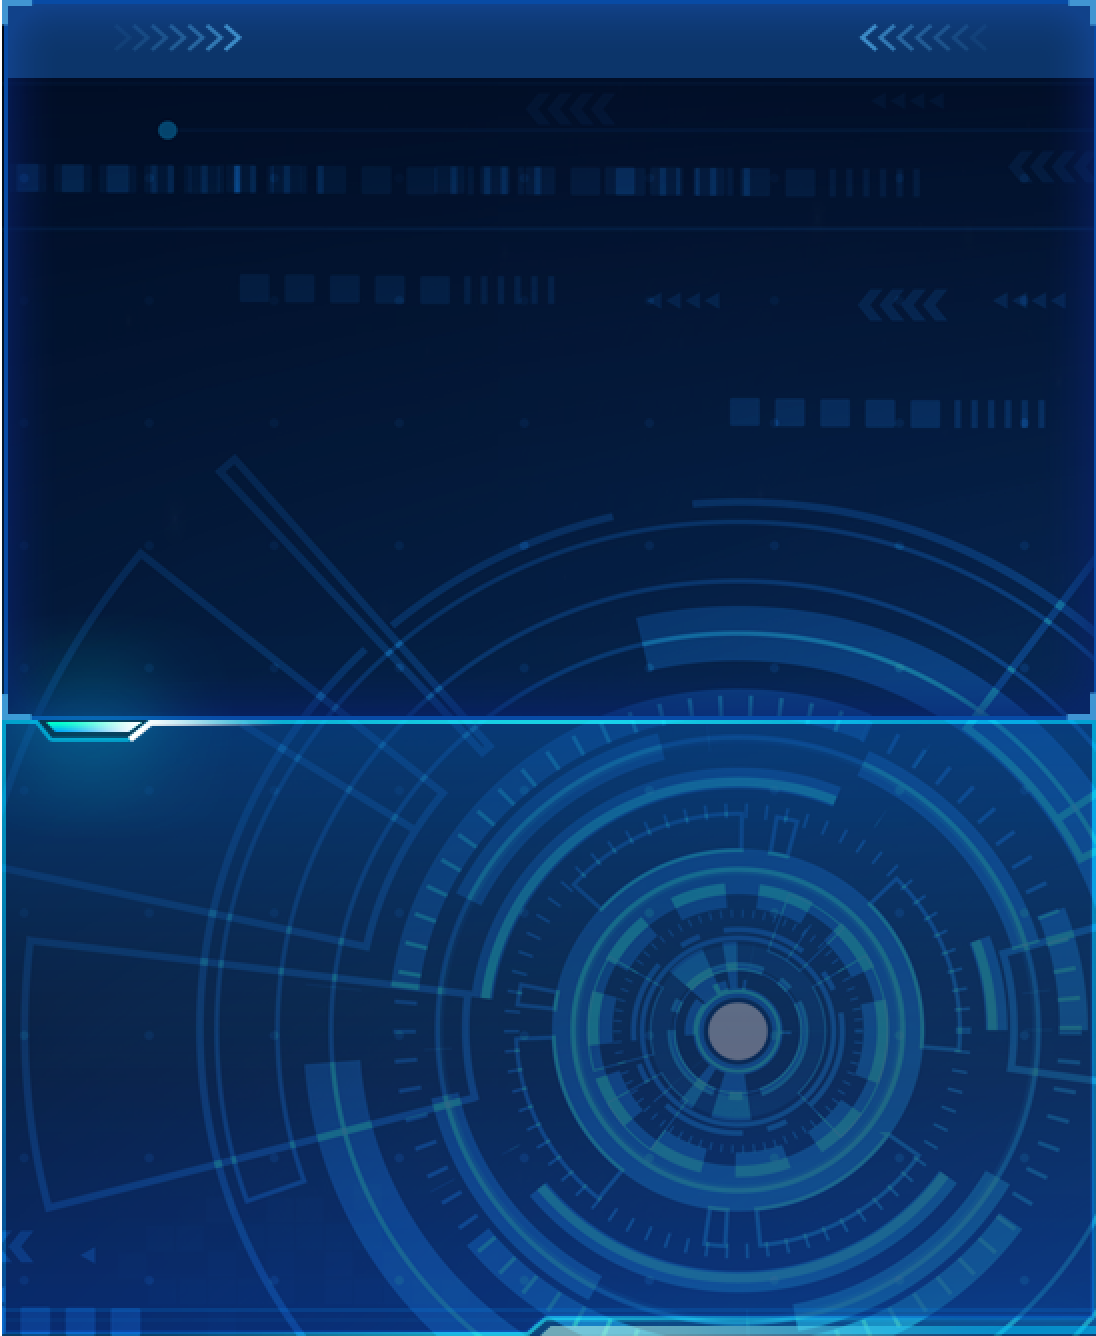
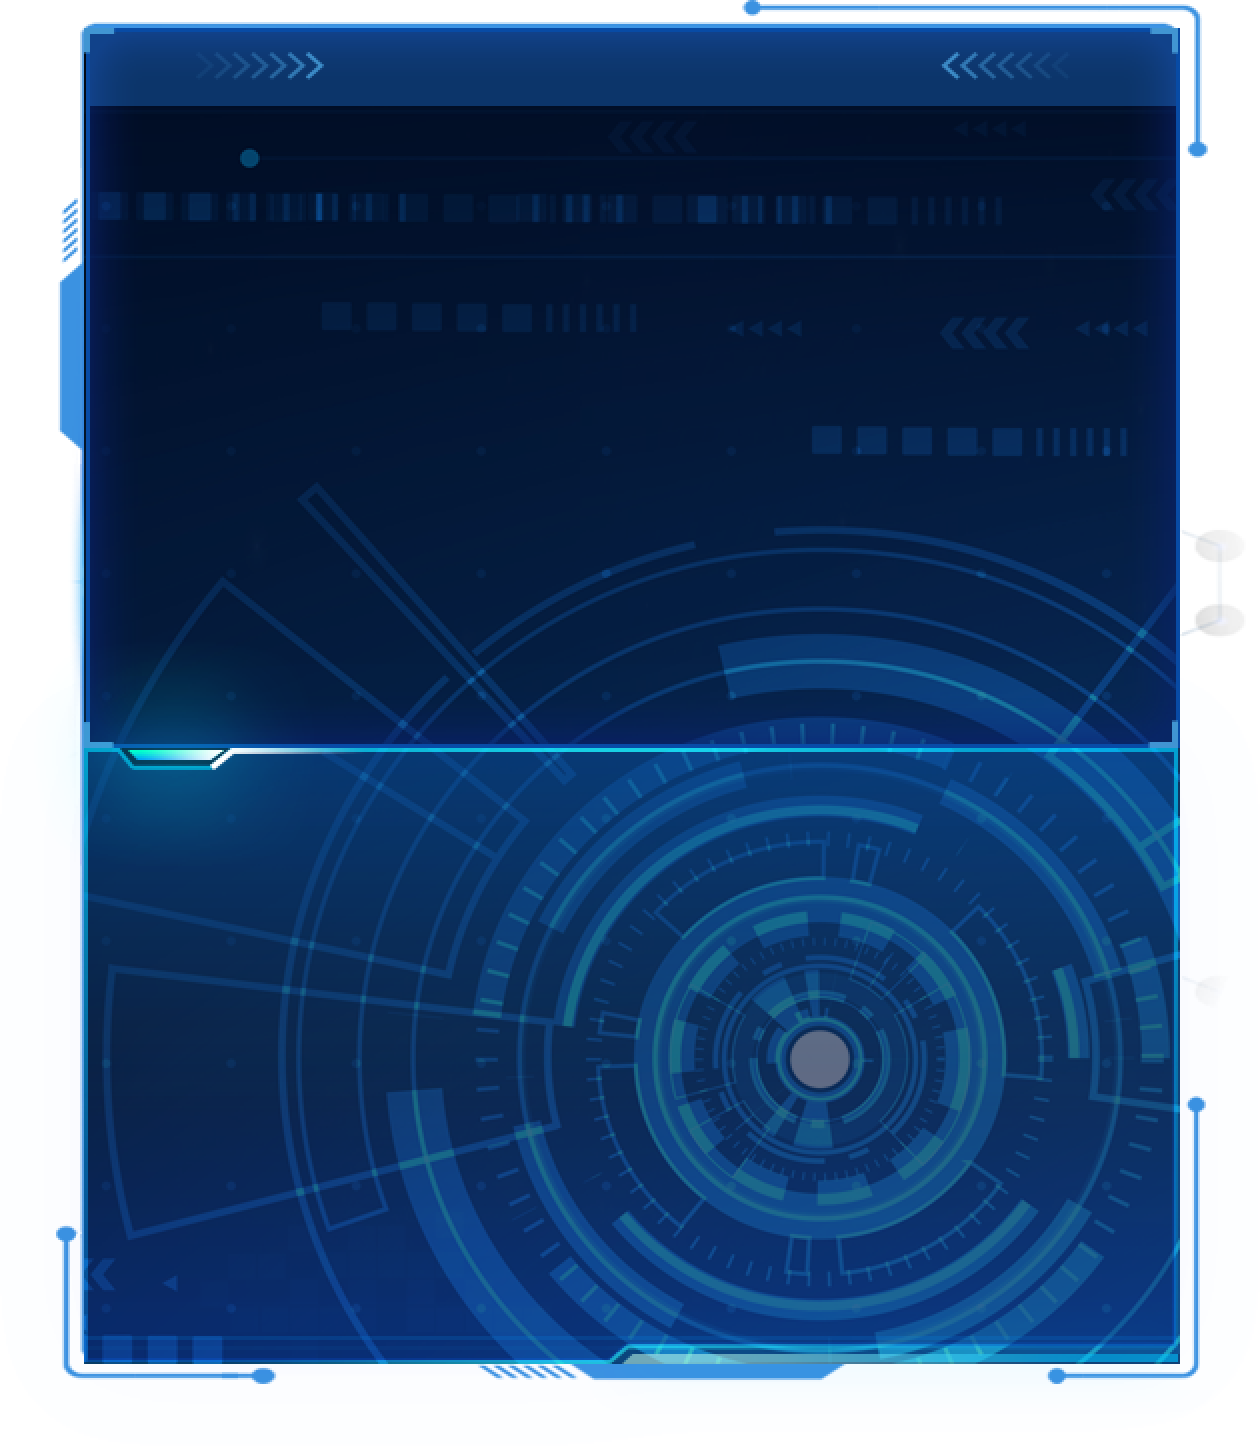
feat: 武器库

diff --git a/src/views/visualizing/pages/weapon/components/addWeaponDialog.vue b/src/views/visualizing/pages/weapon/components/addWeaponDialog.vue
@@ -4,50 +4,53 @@
                width="769px"
                :close-on-click-modal="false"
                :destroy-on-close="true">
-      <el-form ref="formRef"
-               :model="formData"
-               label-width="90px">
-        <el-form-item label="名称"
-                      prop="name">
-          <el-input v-model="formData.name"
-                    placeholder="请输入名称" />
-        </el-form-item>
-        <!-- <el-form-item label="毁伤类型"
-                      prop="damageType">
-          <el-select v-model="formData.damageType"
-                     placeholder="请选择毁伤类型">
-            <el-option label="硬毁伤"
-                       value="硬毁伤" />
-            <el-option label="信息毁伤"
-                       value="信息毁伤" />
-          </el-select>
-        </el-form-item> -->
-        <el-form-item label="图片"
-                      prop="image">
-          <el-upload v-model:file-list="fileList"
-                     class="upload-demo"
-                     :on-preview="handlePreview"
-                     :on-remove="handleRemove"
-                     :on-change="(file) => {fileList = file.rawFileList }"
-                     :limit="1"
-                     :auto-upload="false"
-                     list-type="picture-card">
-            <el-icon class="avatar-uploader-icon"><ele-Plus /></el-icon>
-          </el-upload>
-        </el-form-item>
-        <el-form-item label="描述"
-                      prop="note">
-          <el-input v-model="formData.note"
-                    type="textarea"
-                    :rows="4"
-                    placeholder="请输入描述" />
-        </el-form-item>
-      </el-form>
+      <template #header>
+        <div class="step-title">{{stepTitle[step]}}</div>
+      </template>
+      <div class="form-content">
+        <el-form ref="formRef"
+                 v-show="step===0"
+                 :model="formData"
+                 label-width="90px">
+          <el-form-item label="名称"
+                        prop="name">
+            <el-input v-model="formData.name"
+                      placeholder="请输入名称" />
+          </el-form-item>
+          <el-form-item label="图片"
+                        prop="image">
+            <el-upload v-model:file-list="fileList"
+                       class="upload-demo"
+                       :on-preview="handlePreview"
+                       :on-remove="handleRemove"
+                       :on-change="(file) => {fileList = file.rawFileList }"
+                       :limit="1"
+                       :auto-upload="false"
+                       list-type="picture-card">
+              <el-icon class="avatar-uploader-icon"><ele-Plus /></el-icon>
+            </el-upload>
+          </el-form-item>
+          <el-form-item label="描述"
+                        prop="note">
+            <el-input v-model="formData.note"
+                      type="textarea"
+                      :rows="4"
+                      placeholder="请输入描述" />
+          </el-form-item>
+        </el-form>
+
+        <div class="right-small-box"></div>
+      </div>
       <template #footer>
         <div class="dialog-footer">
+          <el-button class="search-form-btn"
+                     type="primary"
+                     @click="preStep"
+                     v-if="step>0">上一步</el-button>
           <el-button type="primary"
+                     class="search-form-btn"
+                     v-if="step<6"
                      @click="nextStep">下一步</el-button>
-          <el-button @click="">上一步</el-button>
         </div>
       </template>
     </el-dialog>
@@ -60,7 +63,7 @@
   </div>
 </template>
 <script setup>
-import { ref, getCurrentInstance } from 'vue';
+import { ref } from 'vue';
 import { getAssaultWeaponMgr, addAssaultWeaponMgr, updateAssaultWeaponMgr } from '/@/api/sim/AssaultWeaponMgr';
 import { ElMessage } from 'element-plus';
 const props = defineProps({
@@ -71,7 +74,15 @@ const fileList = ref([])
 const handleRemove = (uploadFile, uploadFiles) => {
   // console.log(uploadFile, uploadFiles)
 }
-
+const stepTitle = ref([
+  '攻击武器管理',
+  '导电丝束长度与完全展开时间关系',
+  '导电丝束长度与完全展开时间关系',
+  '引信引爆高度与引爆时间关系',
+  '导电丝束水平移动距离与时间关系',
+  '子弹带伞水平移动距离',
+  '散布面积俯视图',
+])
 const dialogImageUrl = ref('')
 const dialogVisible = ref(false)
 const handlePreview = (file) => {
@@ -101,6 +112,20 @@ const openDialog = (row) => {
 const formRef = ref()
 const loading = ref(false);
 const emit = defineEmits(['AssaultWeaponMgrList']);
+
+const step = ref(0)
+
+const nextStep = () => {
+  if (step.value === 0) {
+    onSubmit();
+  } else {
+
+  }
+  step.value++
+};
+const preStep = () => {
+  step.value--
+};
 // 提交
 const onSubmit = () => {
   const formWrap = formRef.value;
@@ -157,29 +182,6 @@ defineExpose({
 });
 </script>
 <style scoped lang="scss">
-.sim-AssaultWeaponMgr-edit :deep(.avatar-uploader .avatar) {
-	width: 178px;
-	height: 178px;
-	display: block;
-}
-.sim-AssaultWeaponMgr-edit :deep(.avatar-uploader .el-upload) {
-	border: 1px dashed var(--el-border-color);
-	border-radius: 6px;
-	cursor: pointer;
-	position: relative;
-	overflow: hidden;
-	transition: var(--el-transition-duration-fast);
-}
-.sim-AssaultWeaponMgr-edit :deep(.avatar-uploader .el-upload:hover) {
-	border-color: var(--el-color-primary);
-}
-.sim-AssaultWeaponMgr-edit :deep(.el-icon.avatar-uploader-icon) {
-	font-size: 28px;
-	color: #1c71e8;
-	width: 178px;
-	height: 178px;
-	text-align: center;
-}
 :deep(.el-dialog) {
 	background: url('../../../images/weapon-step.png') no-repeat;
 	background-size: 100% 100%;
@@ -187,6 +189,41 @@ defineExpose({
 :deep(.preview-dialog) {
 	.el-dialog__body {
 		overflow-x: auto;
+	}
+}
+.dialog-footer {
+	display: flex;
+	justify-content: center;
+	align-items: center;
+	margin-bottom: 50px;
+}
+:deep(.el-dialog) {
+	--el-dialog-padding-primary: 4px 10px;
+}
+:deep(.el-dialog__headerbtn) {
+	right: 50px;
+	.el-dialog__close {
+		color: #fff;
+	}
+}
+.step-title {
+	text-align: center;
+	height: 40px;
+	line-height: 58px;
+}
+.form-content {
+	height: 496px;
+	padding: 0 70px 0 20px;
+	overflow: visible;
+	position: relative;
+	.right-small-box {
+		width: 302px;
+		height: 252px;
+		background: url('../../../images/weapon-step-small.png') no-repeat;
+		background-size: 100% 100%;
+		position: absolute;
+		top: 100px;
+		right: -100px;
 	}
 }
 </style>
